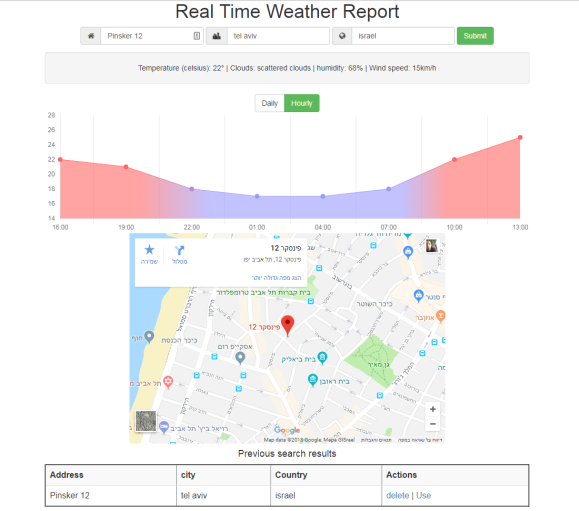
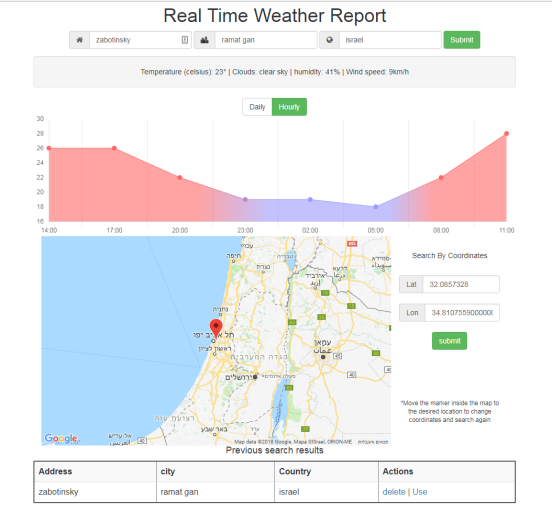
Added option to search by coordinates

diff --git a/controllers/geo.js b/controllers/geo.js
@@ -90,6 +90,9 @@ class Geo {
                   var latitude = body.results[0].geometry.location.lat;
                   var longtitude = body.results[0].geometry.location.lng;
 
+                  form_parameters.lat = latitude;
+                  form_parameters.lon = longtitude;
+
                   var weather_url = weather_api_endpoint.replace('{lat}', latitude).replace('{lon}', longtitude);
 
                   request({
@@ -211,8 +214,6 @@ class Geo {
                               proximate_weather_hourly_array.push({min_temp: min_temp_hourly-2, max_temp: max_temp_hourly+2});
                               proximate_weather_hourly_array.push(gradient_colors_hourly);
 
-                              console.log(proximate_weather_array);
-
                               if(w_error !== null) {
                                 var request_error_array = [
                                   {
@@ -295,6 +296,201 @@ class Geo {
                   });
                 }
               }
+          });
+        }
+    }
+
+    getWeatherReportByCoordinates(req, res) {
+        var check_query_exists = this.checkQueryExists(req.body);
+
+        // console.log(req.body.first_name);
+        req.checkBody('latitude', 'latitude is reuired').notEmpty(); //express validator for empty value
+        req.checkBody('longitude', 'longitude is required').notEmpty();
+
+        var errors = req.validationErrors(); //checking for erros based on validator
+
+        var lat = req.body.latitude;
+        var lon = req.body.longitude;
+
+        var address = null;
+        var city = null;
+        var country = null;
+
+        var form_parameters = {
+          lat,
+          lon
+        };
+
+        if(errors) {
+          //re-rendering the form
+          this.renderError(errors, form_parameters, res);
+        } else {
+          var latitude = lat;
+          var longtitude = lon;
+
+          form_parameters.lat = latitude;
+          form_parameters.lon = longtitude;
+
+          var weather_url = weather_api_endpoint.replace('{lat}', latitude).replace('{lon}', longtitude);
+
+          request({
+            url: weather_url,
+            json: true
+          }, (w_error, w_response, w_body) => {
+              //Now getting the proximate weather report
+              var proximate_weather_url = proximate_weather_api_endpoint.replace('{lat}', latitude).replace('{lon}', longtitude);
+
+              request({
+                  url: proximate_weather_url,
+                  json: true
+              }, (w2_error, w2_response, w2_body) => {
+                  if(w2_error) {
+                      var request_error_array = [
+                        {
+                          msg: 'Connection with the weather APIs has failed. try again later'
+                        }
+                      ];
+
+                      console.log(w2_error);
+
+                      this.renderError(request_error_array, form_parameters, res);
+                  } else {
+                      var proximate_weather_array = [];
+                      var proximate_weather_hourly_array = [];
+                      var gradient_colors = [];
+                      var gradient_colors_hourly = [];
+                      var min_temp = null;
+                      var min_temp_hourly = null;
+                      var max_temp = null;
+                      var max_temp_hourly = null;
+
+                      var weather_data = w2_body.daily.data;
+                      var weather_data_hourly = w2_body.hourly.data;
+
+                      for(var i = 1; i <= weather_data.length-1; i++) {
+                          var d = new Date(0);
+                          d.setUTCSeconds(weather_data[i].time);
+                          var celcius_temp = Math.round((weather_data[i].temperatureHigh - 32) * 0.5556);
+
+                          if(celcius_temp < 20) {
+                              gradient_colors.push(blue_rgb);
+                          } else if(celcius_temp > 20 && celcius_temp < 30) {
+                              gradient_colors.push(light_red_rgb);
+                          } else {
+                              gradient_colors.push(strong_red_rgb);
+                          }
+
+                          if(min_temp === null) {
+                              min_temp = celcius_temp;
+                              max_temp = celcius_temp;
+                          } else {
+                              if(celcius_temp < min_temp) {
+                                 min_temp = celcius_temp;
+                              }
+
+                              if(max_temp === null || celcius_temp > max_temp) {
+                                  max_temp = celcius_temp;
+                              }
+                          }
+
+                          var day_obj = {
+                              day: weekdays[d.getDay()],
+                              temperature: celcius_temp,
+                              summary: weather_data[i].summary
+                          };
+
+                          proximate_weather_array.push(day_obj);
+                      }
+
+                      proximate_weather_array.push({min_temp: min_temp-2, max_temp: max_temp+2});
+                      proximate_weather_array.push(gradient_colors);
+
+                      for(var h = 1; h <= 24; h++) {
+                          var d2 = new Date(0);
+                          d2.setUTCSeconds(weather_data_hourly[h].time);
+                          var celcius_temp_hourly = Math.round((weather_data_hourly[h].temperature - 32) * 0.5556);
+
+                          if((h % 3) === 0 ) {
+                              if(celcius_temp_hourly < 20) {
+                                  gradient_colors_hourly.push(blue_rgb);
+                              } else if(celcius_temp_hourly >= 20 && celcius_temp_hourly < 30) {
+                                  gradient_colors_hourly.push(light_red_rgb);
+                              } else {
+                                  gradient_colors_hourly.push(strong_red_rgb);
+                              }
+
+
+                              if(min_temp_hourly === null) {
+                                  min_temp_hourly = celcius_temp_hourly;
+                                  max_temp_hourly = celcius_temp_hourly;
+                              } else {
+                                  if(celcius_temp_hourly < min_temp_hourly) {
+                                      min_temp_hourly = celcius_temp_hourly;
+                                  }
+
+                                  if(max_temp_hourly === null || celcius_temp_hourly > max_temp_hourly) {
+                                      max_temp_hourly = celcius_temp_hourly;
+                                  }
+                              }
+
+                              var original_hour = d2.getHours();
+                              if(original_hour < 10) {
+                                  var hour = `0${original_hour}:00`
+                              } else {
+                                  var hour = `${original_hour}:00`
+                              }
+
+                              var hour_obj = {
+                                  hour,
+                                  temperature: celcius_temp_hourly
+                              };
+
+                              proximate_weather_hourly_array.push(hour_obj);
+                          }
+                      }
+
+                      proximate_weather_hourly_array.push({min_temp: min_temp_hourly-2, max_temp: max_temp_hourly+2});
+                      proximate_weather_hourly_array.push(gradient_colors_hourly);
+
+                      if(w_error !== null) {
+                        var request_error_array = [
+                          {
+                            msg: w_error
+                          }
+                        ];
+
+                        this.renderError(request_error_array, form_parameters, res);
+                      } else {
+
+                        var weather_obj = {
+                          temperature: w_body.main.temp - 273.15, //kelvin to celsius
+                          humidity_percent: w_body.main.humidity,
+                          clouds: w_body.weather[0].description,
+                          wind: w_body.wind.speed * 3.6//meters per second * 3.6 = km/hour
+                        }
+
+                        var newSearch = {
+                          address,
+                          city,
+                          country,
+                          ip: user_ip
+                        };
+
+
+                      db.searches.find({ip: user_ip}, (err, docs) => {
+                        res.render('index', {
+                          title: page_title,
+                          form_parameters,
+                          previous_searches: docs,
+                          google_success: true,
+                          weather_obj,
+                          proximate_weather_array,
+                          proximate_weather_hourly_array
+                        });
+                      });
+                    }
+                  }
+              });
           });
         }
     }

diff --git a/routes/index.js b/routes/index.js
@@ -25,6 +25,10 @@ module.exports = (app, geo, bodyParser, expressValidator) => {
         geo.getWeatherReport(req, res);
     });
 
+    app.post('/address/coordinate-search', (req, res) => {
+        geo.getWeatherReportByCoordinates(req, res);
+    });
+
     app.delete('/search/delete/:id', (req, res) => {
         geo.deletGeoRecord(req, res);
     });

diff --git a/public/style/main.css b/public/style/main.css
@@ -2,3 +2,13 @@
     float: none;
     margin: 0 auto;
 }
+
+#map {
+   height: 100%;
+}
+     /* Optional: Makes the sample page fill the window. */
+ html, body {
+     height: 100%;
+     margin: 0;
+     padding: 0;
+ }

diff --git a/public/js/main.js b/public/js/main.js
@@ -7,7 +7,6 @@ $(document).ready(function() {
 
   $('#daily-button').on('click', function() {
       if($('#dailyButtonLabel').hasClass('btn-success')) {
-          console.log('clicked1');
           return;
       }
 
